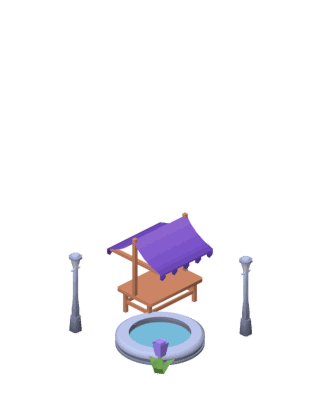
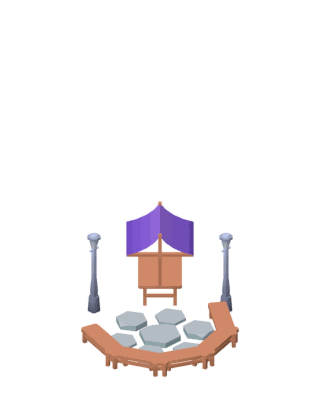
Theatre and amphitheatre art, pictures in the ticker, focused student map
- Gathering place art now matches its names: a puppet-theatre booth with
  benches facing it (Teatteri) and a paved ring with benches and a stage
  (Amfiteatteri).
- Projector events carry a small picture (spring, field, quarry, the
  building built, fish when food runs short) and shorter texts.
- The student map frames the explored land with two tiles of room
  instead of the whole island, and widens as the class explores; the
  recentre button says "Keskitä".
- Shared work (exploring, clearing a field, founding a quarry) shows its
  progress right under the action button, with this action's share
  dashed.
- The month summary keeps two columns on phones; landing and no-energy
  texts match the boat and the energy bolts.

Changed region(s): [[0.2188, 0.51, 0.8125, 0.96]]

diff --git a/apps/client/src/i18n/fi.ts b/apps/client/src/i18n/fi.ts
@@ -169,7 +169,7 @@ export const fi = {
   'terrain.field.description': 'Pellosta korjataan ruokaa. Pelto kasvaa joka kuukausi taas täyteen.',
   'terrain.quarry.name': 'Louhos',
   'terrain.quarry.description': 'Louhoksesta saa kiveä. Mitä vähemmän kiveä on jäljellä, sitä vähemmän sitä irtoaa.',
-  'tile.landing': 'Rantautumispaikka: tähän hylky ajoi.',
+  'tile.landing': 'Rantautumispaikka: tähän rantauduitte veneellä.',
   'tile.select': 'Napauta ruutua kartalla',
   'tile.more': 'Lisätietoja',
   'tile.stock.forest': 'Puuta jäljellä {n} / {max}',
@@ -249,7 +249,7 @@ export const fi = {
   'refusal.removed': 'Opettaja poisti sinut pelistä.',
   'refusal.wrong-phase': 'Toimintoja voi tehdä vain toimintavuorolla.',
   'refusal.out-of-bounds': 'Tämä ruutu ei ole saarella.',
-  'refusal.no-actions-left': 'Toimintosi on käytetty tältä kuukaudelta.',
+  'refusal.no-actions-left': 'Energiasi on käytetty tältä kuulta.',
   'refusal.not-explorable': 'Tutki ensin ruutu tämän vierestä.',
   'refusal.deep-sea': 'Liian syvää. Kalastaa voi vain tutkitun rannan vieressä.',
   'refusal.field-empty': 'Pelto on korjattu tyhjäksi. Se kasvaa taas ensi kuussa.',
@@ -309,7 +309,7 @@ export const fi = {
   'play.refused.title': 'Liittyminen ei onnistunut',
   'play.soundOn': 'Äänet päällä',
   'play.soundOff': 'Äänet pois',
-  'play.recenter': 'Koko saari',
+  'play.recenter': 'Keskitä',
   'play.tab.vote': 'Äänestys',
 
   'skill.education': 'Koulutus',
@@ -390,9 +390,9 @@ export const fi = {
   'ticker.quarry-ready': 'Louhos valmistui.',
   'ticker.forest-cleared': 'Metsä kaadettiin niityksi.',
   'ticker.built': 'Rakennettiin: {name}',
-  'ticker.tie': 'Tasapeli! Neuvotelkaa ja yrittäkää ensi kuussa uudelleen.',
+  'ticker.tie': 'Tasapeli! Ei rakennettu. Neuvotelkaa!',
   'ticker.player-joined': 'Uusi kyläläinen liittyi.',
-  'ticker.food-short': 'Ruoka ei riitä tässä kuussa: puuttuu {missing}.',
+  'ticker.food-short': 'Ruoka ei riitä: puuttuu {missing}.',
 
   // ---------------------------------------------------------------- debrief
   'debrief.title': 'Jälkipuinti',

diff --git a/apps/client/src/map/renderer.ts b/apps/client/src/map/renderer.ts
@@ -9,7 +9,7 @@ import type { Coord, Gain, PublicTile } from '@saari/rules';
 import { formatNumber } from '../i18n/index.ts';
 import { gainParts } from '../lib/format.ts';
 import { exploreNeeded, stockMax } from '../lib/rules-info.ts';
-import { clampCamera, fitCamera, panBy, screenToWorld, zoomAt, type Camera } from './camera.ts';
+import { clampCamera, fitCamera, panBy, playArea, screenToWorld, zoomAt, type Camera } from './camera.ts';
 import { drawOrder, tileCenter, tilesBounds, worldToTile, type Rect } from './iso.ts';
 import {
   CLOUD_SCALE,
@@ -144,6 +144,8 @@ export class MapRenderer {
   #map: MapView | null = null;
   #villagers = 0;
   #bounds: Rect | null = null;
+  /** Students: the explored part of the island, where the map frames by default. */
+  #focus: Rect | null = null;
   #camera: Camera = { x: 0, y: 0, scale: 1 };
   #userMoved = false;
   #selected: Coord | null = null;
@@ -198,6 +200,7 @@ export class MapRenderer {
     this.#map = map;
     this.#villagers = villagers;
     this.#bounds = this.#islandBounds(map);
+    this.#focus = this.#options.mode === 'student' ? tilesBounds(playArea(map.tiles, map.landing), 8) : null;
     this.#draw();
     if (first || this.#options.mode === 'projector' || !this.#userMoved) this.fit();
     else this.#requestRender();
@@ -284,12 +287,13 @@ export class MapRenderer {
     this.#draw();
   }
 
-  /** Whole island in view. */
+  /** Whole island in view (students: the explored part of it). */
   fit(): void {
-    if (!this.#bounds) return;
+    const frame = this.#focus ?? this.#bounds;
+    if (!frame) return;
     const { width, height } = this.#viewSize();
     const padding = this.#options.mode === 'projector' ? 24 : 16;
-    this.#camera = fitCamera(this.#bounds, width, height, padding, this.#options.mode === 'projector' ? 3 : 2.2);
+    this.#camera = fitCamera(frame, width, height, padding, this.#options.mode === 'projector' ? 3 : 2.2);
     this.#setUserMoved(false);
     this.#applyCamera();
   }

diff --git a/apps/client/src/components/TilePanel.svelte b/apps/client/src/components/TilePanel.svelte
@@ -1,6 +1,6 @@
 <script lang="ts">
   import type { ActionPreview, Coord, Phase, PublicTile } from '@saari/rules';
-  import { t } from '../i18n/index.ts';
+  import { formatNumber, t } from '../i18n/index.ts';
   import { actionName, buildingTitle, gainText, terrainDescription, terrainName } from '../lib/format.ts';
   import { exploreNeeded, shelterPeople, stockMax, tileUseCapacity, workNeeded } from '../lib/rules-info.ts';
   import type { ActOutcome } from '../state/reducer.ts';
@@ -117,6 +117,17 @@
           <GainChip gain={preview.yield} />
         {/if}
       </button>
+      {#if preview.yield.type === 'work'}
+        {@const y = preview.yield}
+        <!-- Shared work: how far it is and how far this action takes it. -->
+        <div class="work" aria-label={t('yield.work', { done: y.done, after: Math.min(y.needed, y.done + y.amount), needed: y.needed })}>
+          <div class="bar">
+            <span class="next" style:width="{Math.min(1, (y.done + y.amount) / y.needed) * 100}%"></span>
+            <span style:width="{Math.min(1, y.done / y.needed) * 100}%"></span>
+          </div>
+          <span class="steps">{formatNumber(y.done)} / {formatNumber(y.needed)}</span>
+        </div>
+      {/if}
       {#if !preview.available && preview.reason}
         <p class="reason" role="status">{t(`refusal.${preview.reason}`)}</p>
       {/if}
@@ -186,6 +197,30 @@
   .act {
     width: 100%;
     flex-wrap: wrap;
+  }
+  .work {
+    display: flex;
+    align-items: center;
+    gap: 0.5rem;
+    font-weight: 800;
+  }
+  .work .bar {
+    position: relative;
+    flex: 1;
+    height: 0.9rem;
+  }
+  .work .bar > span {
+    position: absolute;
+    inset: 0 auto 0 0;
+  }
+  .work .bar > .next {
+    background: var(--primary-soft);
+    outline: 2px dashed var(--primary);
+    outline-offset: -2px;
+  }
+  .steps {
+    font-variant-numeric: tabular-nums;
+    color: var(--muted);
   }
   .reason {
     color: var(--danger);

diff --git a/apps/client/src/components/Ticker.svelte b/apps/client/src/components/Ticker.svelte
@@ -1,19 +1,44 @@
 <script lang="ts">
   import { t } from '../i18n/index.ts';
+  import type { TickerEvent } from '@saari/protocol';
   import { tickerText } from '../lib/format.ts';
   import type { TickerItem } from '../state/reducer.ts';
+  import ArtIcon from './ArtIcon.svelte';
+  import PropPicture from './PropPicture.svelte';
 
   /** Newest first. Never names anyone (P34). */
   let { items, limit = 6 }: { items: readonly TickerItem[]; limit?: number } = $props();
 
   const shown = $derived([...items].reverse().slice(0, limit));
+
+  /** A small picture per event, from the map's own art. */
+  function picture(event: TickerEvent): string | null {
+    switch (event.kind) {
+      case 'spring-found':
+        return 'props/spring';
+      case 'field-ready':
+        return 'props/field-0';
+      case 'quarry-ready':
+        return 'props/quarry';
+      case 'forest-cleared':
+        return 'props/meadow-b';
+      case 'built':
+        return /^[a-z]+-[123]$/.test(event.option) ? `props/${event.option}` : null;
+      default:
+        return null;
+    }
+  }
 </script>
 
 <section class="ticker" aria-labelledby="ticker-title">
   <h2 id="ticker-title">{t('ticker.title')}</h2>
   <ol aria-live="polite">
     {#each shown as item (item.id)}
-      <li class={item.event.kind}>{tickerText(item.event)}</li>
+      {@const art = picture(item.event)}
+      <li class={item.event.kind}>
+        {#if art}<PropPicture texture={art} size={34} />{:else if item.event.kind === 'food-short'}<ArtIcon name="food" size={30} />{/if}
+        <span>{tickerText(item.event)}</span>
+      </li>
     {:else}
       <li class="empty">{t('ticker.empty')}</li>
     {/each}
@@ -35,7 +60,10 @@
     gap: 0.35em;
   }
   li {
-    padding: 0.35em 0.6em;
+    display: flex;
+    align-items: center;
+    gap: 0.45em;
+    padding: 0.3em 0.6em;
     border-left: 5px solid var(--primary);
     border-radius: 6px;
     background: var(--card-2);

diff --git a/apps/client/test/camera-routes.test.ts b/apps/client/test/camera-routes.test.ts
@@ -1,5 +1,5 @@
 import { describe, expect, it } from 'vitest';
-import { clampCamera, fitCamera, panBy, screenToWorld, worldToScreen, zoomAt } from '../src/map/camera.ts';
+import { clampCamera, fitCamera, panBy, playArea, screenToWorld, worldToScreen, zoomAt } from '../src/map/camera.ts';
 import { isGameCode, normalizeCode, parseRoute } from '../src/lib/routes.ts';
 import { backoffDelay } from '../src/net/websocket.ts';
 import { isMock } from '../src/net/mode.ts';
@@ -76,5 +76,26 @@ describe('reconnect backoff', () => {
     expect(backoffDelay(3, 500, 8000, () => 1)).toBe(4000);
     expect(backoffDelay(10, 500, 8000, () => 1)).toBe(8000);
     expect(backoffDelay(10, 500, 8000, () => 0)).toBe(4000);
+  });
+});
+
+describe('playArea', () => {
+  const tile = (x: number, y: number, over: Partial<{ fog: boolean; terrain: string | null }> = {}) => ({ x, y, fog: false, terrain: 'meadow', ...over });
+
+  it('frames what has been explored, with two tiles of room round it', () => {
+    const tiles = [tile(5, 5), tile(6, 5), tile(9, 9, { fog: true, terrain: null }), tile(0, 0, { terrain: 'sea' })];
+    const area = playArea(tiles, { x: 5, y: 5 });
+    const xs = area.map((c) => c.x);
+    const ys = area.map((c) => c.y);
+    expect(Math.min(...xs)).toBe(3);
+    expect(Math.max(...xs)).toBe(8);
+    expect(Math.min(...ys)).toBe(3);
+    expect(Math.max(...ys)).toBe(7);
+  });
+
+  it('frames the landing when nothing is explored yet', () => {
+    const area = playArea([tile(1, 1, { fog: true, terrain: null })], { x: 4, y: 4 });
+    expect(area).toContainEqual({ x: 2, y: 2 });
+    expect(area).toContainEqual({ x: 6, y: 6 });
   });
 });

diff --git a/apps/client/src/map/camera.ts b/apps/client/src/map/camera.ts
@@ -58,3 +58,21 @@ export function clampCamera(cam: Camera, bounds: Rect, viewW: number, viewH: num
   if (top > viewH - keepY) y -= top - (viewH - keepY);
   return { ...cam, x, y };
 }
+
+/**
+ * Where a student's map frames by default: the explored land with two tiles of room round
+ * it (the green boxes to explore next and the fishing water), or the landing at the start.
+ * The view widens by itself as the class explores.
+ */
+export function playArea(
+  tiles: readonly { x: number; y: number; fog: boolean; terrain: string | null }[],
+  landing: { x: number; y: number },
+): { x: number; y: number }[] {
+  const known = tiles.filter((t) => !t.fog && t.terrain !== null && t.terrain !== 'sea');
+  const centres = known.length > 0 ? known : [landing];
+  const out: { x: number; y: number }[] = [];
+  for (const c of centres) {
+    for (let dy = -2; dy <= 2; dy++) for (let dx = -2; dx <= 2; dx++) out.push({ x: c.x + dx, y: c.y + dy });
+  }
+  return out;
+}

diff --git a/apps/client/src/components/MonthSummary.svelte b/apps/client/src/components/MonthSummary.svelte
@@ -85,7 +85,8 @@
   }
   .tiles {
     display: grid;
-    grid-template-columns: repeat(auto-fit, minmax(9.5em, 1fr));
+    /* Never fewer than two columns: all four pictures fit on a phone without scrolling. */
+    grid-template-columns: repeat(auto-fit, minmax(min(9.5em, 42%), 1fr));
     gap: 0.7em;
   }
   .tile {
@@ -103,6 +104,19 @@
   .tile strong {
     font-size: 1.1em;
     line-height: 1.2;
+  }
+  @media (max-width: 520px) {
+    .tile {
+      padding: 0.6em 0.4em;
+    }
+    .tile strong {
+      font-size: 0.95em;
+    }
+    .tile :global(.art-icon),
+    .tile :global(svg[role='img']) {
+      width: 48px;
+      height: 48px;
+    }
   }
   .good {
     background: var(--ok-soft);

diff --git a/apps/client/test/format.test.ts b/apps/client/test/format.test.ts
@@ -26,7 +26,7 @@ describe('game text', () => {
     expect(optionName({ id: 'school-2' })).toBe('Koulu (taso 2)');
     expect(optionName({ id: 'none' })).toBe('Ei rakenneta tässä kuussa');
     expect(tickerText({ kind: 'built', option: 'shelter-1', x: 1, y: 2 })).toBe('Rakennettiin: Teltta');
-    expect(tickerText({ kind: 'food-short', missing: 12 })).toBe('Ruoka ei riitä tässä kuussa: puuttuu 12.');
+    expect(tickerText({ kind: 'food-short', missing: 12 })).toBe('Ruoka ei riitä: puuttuu 12.');
     expect(parseOptionId('workshop-3')).toEqual({ kind: 'workshop', level: 3 });
     expect(parseOptionId('castle-1')).toBeNull();
   });

diff --git a/apps/client/src/map/kenney-props.ts b/apps/client/src/map/kenney-props.ts
@@ -21,8 +21,8 @@ export const PROP_TOPS: Readonly<Record<string, number>> = {
   'workshop-2': 137,
   'workshop-3': 162,
   'gathering-1': 46,
-  'gathering-2': 120,
-  'gathering-3': 118,
+  'gathering-2': 137,
+  'gathering-3': 129,
   'field-0': 83,
   'field-1': 83,
   'field-2': 83,

diff --git a/tools/art/kenney-props-spec.py b/tools/art/kenney-props-spec.py
@@ -12,6 +12,7 @@ Kits (CC0, kenney.nl): survival = Survival Kit 2.0, town = Fantasy Town Kit 2.0,
 nature = Nature Kit, pirate = Pirate Kit.
 """
 import json
+import math
 import os
 
 N, S, T, P = 'nature/', 'survival/', 'town/', 'pirate/'
@@ -155,14 +156,18 @@ def workshop(level):
 
 
 def gathering(level):
-    if level == 1:  # a campfire with logs to sit on
+    if level == 1:  # Nuotio: a campfire with logs to sit on
         return [*campfire((0, 0), 1.2), part(N + 'log_large', (-0.27, 0.0), 0.28, 90), part(N + 'log_large', (0.0, 0.27), 0.28, 0)]
-    if level == 2:  # benches round the fire
-        return [*campfire((0, 0), 1.2), part(T + 'stall-bench', (-0.27, 0), 0.5), part(T + 'stall-bench', (0, 0.27), 0.5, 90),
-                part(T + 'lantern', (-0.32, 0.32), 0.3)]
-    return [part(T + 'stall-red', (-0.18, 0.18), 0.4), part(T + 'fountain-round', (0.1, -0.1), 0.24),
-            part(T + 'lantern', (0.35, 0.3), 0.3), part(T + 'lantern', (-0.32, -0.32), 0.3),
-            part(N + 'flower_purpleA', (0.32, -0.32), 0.8)]
+    if level == 2:  # Teatteri: a puppet-theatre booth with benches in front
+        return [part(T + 'stall-red', (-0.17, 0.17), 0.46, 45), part(T + 'stall-bench', (0.1, -0.1), 0.45, -45),
+                part(T + 'stall-bench', (0.27, -0.27), 0.45, -45), part(T + 'lantern', (-0.36, -0.2), 0.3)]
+    # Amfiteatteri: a paved ring with benches round it and a stage at the back
+    ring = []
+    for deg in (-60, -20, 20, 60, 100):
+        r = 0.34
+        ring.append(part(T + 'stall-bench', (0.06 + r * math.cos(math.radians(deg - 45)), -0.06 + r * math.sin(math.radians(deg - 45))), 0.38, deg - 45))
+    return [part(N + 'path_stoneCircle', (0.06, -0.06), 0.62), *ring, part(T + 'stall-red', (-0.3, 0.3), 0.36, 45),
+            part(T + 'lantern', (-0.4, -0.1), 0.3), part(T + 'lantern', (0.1, 0.4), 0.3)]
 
 
 sprites = []
